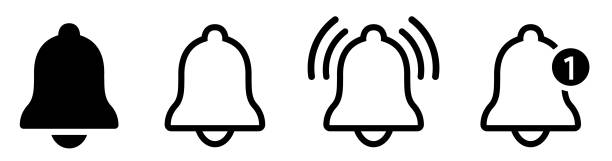
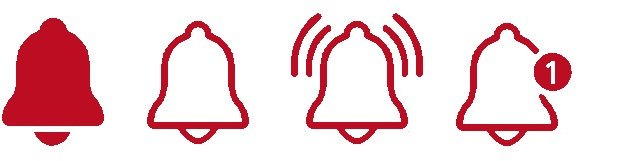
Style again

Changed region(s): [[0.4657, 0.0932, 0.9624, 0.9317], [0.0, 0.0932, 0.4346, 0.9317]]

diff --git a/base/templates/base/navbar.html b/base/templates/base/navbar.html
@@ -3,32 +3,32 @@
     <div class="container" style="margin-bottom: 20px;">
         <nav style="width: 100%; padding-top: 3px; padding-bottom: 10px; height: 50px;">
             <ul class="nav nav-tabs" style="border: 0px;">
-                <li class="nav-item" style="margin-top:0px; margin-left:5px;">
+                <li class="nav-item" style="margin-top:0px; margin-left:34px;">
                     <a href="{% url 'questions' %}">
-                        <img src="{% static 'images/lx10.png' %}">
+                        <img style="border: #e45c5c 1px ridge; border-radius: 9%;" src="{% static 'images/lx10.png' %}">
                     </a>
                 </li>
                 <li class="nav-item" style="margin-top:0px; margin:auto; margin-left:20px;">
-                    <input style="padding:5px; border-radius: 10px; width: 300px; background-color: #f6f5f5;" placeholder="Find Questions" />
+                    <input style="padding:5px; border-radius: 5%; border: #e45c5c 1px ridge; width: 300px; background-color: #FFFBFC; margin-right: 100px; margin-left: 30px;" placeholder="Find Questions" />
                 </li>
-                <li class="nav-item" style="margin-top:0px; margin:auto; margin-left:15px;">
+                <li class="nav-item" style="margin-top:0px; margin:auto; margin-left: 25px;">
                     <a href="{% url 'myquestions' %}">
                         <img src="{% static 'images/myfolder2.png' %}">
                     </a>
                 </li>
-                <li class="nav-item" style="margin-top:0px; margin:auto; margin-left:15px;">
+                <li class="nav-item" style="margin-top:0px; margin:auto; margin-left: 25px;">
                     <a href="{% url 'account_settings' %}">
                         <div style="width: 42px; height: 42px;">
                             <img style="width: 100%; height: 100%; border-radius: 50%; border: #bd0d22 1px solid;" src="{% static 'images/perfil.png' %}">
                         </div>
                     </a>
                 </li>
-                <li class="nav-item" style="margin-top:0px; margin:auto; margin-left:15px;">
+                <li class="nav-item" style="margin-top:0px; margin:auto; margin-left: 25px;">
                     <a href="{% url 'notifications' %}">
                         <img src="{% static 'images/notification_k.png' %}">
                     </a>
                 </li>
-                <li class="nav-item" style="margin-top:0px; margin:auto; margin-left:15px;">
+                <li class="nav-item" style="margin-top:0px; margin:auto; margin-left: 25px;">
                     <a href="{% url 'logout' %}">
                         <img src="{% static 'images/logout5.png' %}">
                     </a>
@@ -40,22 +40,22 @@
         <nav style="margin:0px; padding-top: 5px;">
             <ul class="nav nav-tabs" style="border: 0px;">
                 <li class="nav-item" style="margin:auto;">
-                    <a class="nav-link" style="color:#252c35; padding:15px; padding-left:30px; padding-right:30px;  font-size: 20px; color:#252c35;; font-weight: bold;" href="{% url 'questions' %}">Questions</a>
+                    <a class="nav-link" style="border-radius: 10%; color:#252c35; padding:15px; padding-left:30px; padding-right:30px;  font-size: 28px; color:#252c35;  font-weight: bold;" href="{% url 'questions' %}">Questions</a>
                 </li>
                 <li class="nav-item" style="margin:auto;">
-                    <a class="nav-link" style="color:#252c35; padding:15px; padding-left:30px; padding-right:30px; font-size: 20px; color:#252c35;  font-weight: bold;" href="{% url 'exams' %}">Exams</a>
+                    <a class="nav-link" style="border-radius: 10%; color:#252c35; padding:15px; padding-left:30px; padding-right:30px; font-size: 28px; color:#252c35;  font-weight: bold;" href="{% url 'exams' %}">Exams</a>
                 </li>
                 <li class="nav-item" style="margin:auto;">
-                    <a class="nav-link" style="color:#252c35; padding:15px; padding-left:30px; padding-right:30px; font-size: 20px; color:#252c35; font-weight: bold;" href="{% url 'universities' %}">Universities</a>
+                    <a class="nav-link" style="border-radius: 10%; color:#252c35; padding:15px; padding-left:30px; padding-right:30px; font-size: 28px; color:#252c35; font-weight: bold;" href="{% url 'universities' %}">Universities</a>
                 </li>
                 <li class="nav-item" style="margin:auto;">
-                    <a class="nav-link" style="color:#252c35; padding:15px; padding-left:30px; padding-right:30px;  font-size: 20px; color:#252c35; font-weight: bold;" href="{% url 'books' %}">Books</a>
+                    <a class="nav-link" style="border-radius: 10%; color:#252c35; padding:15px; padding-left:30px; padding-right:30px;  font-size: 28px; color:#252c35; font-weight: bold;" href="{% url 'books' %}">Books</a>
                 </li>
                 <li class="nav-item" style="margin:auto;">
-                    <a class="nav-link" style="color:#252c35; padding:15px; padding-left:30px; padding-right:30px;  font-size: 20px; color:#252c35; font-weight: bold;" href="{% url 'support' %}"">Support</a>
+                    <a class="nav-link" style="border-radius: 10%; color:#252c35; padding:15px; padding-left:30px; padding-right:30px;  font-size: 28px; color:#252c35; font-weight: bold;" href="{% url 'support' %}"">Support</a>
                 </li>
-                <li class="nav-item" style="margin:auto;">
-                    <a class="nav-link" style="color:#252c35; padding:15px; padding-left:30px; padding-right:30px;  font-size: 20px; color:#252c35; font-weight: bold;" href="{% url 'aboutus' %}"">About Us</a>
+                <li class="nav-item" style="margin:auto; margin-right: 10px;">
+                    <a class="nav-link" style="border-radius: 10%; color:#252c35; padding:15px; padding-left:30px; padding-right:30px;  font-size: 28px; color:#252c35; font-weight: bold;" href="{% url 'aboutus' %}"">About Us</a>
                 </li>
             </ul>
         </nav>

diff --git a/base/templates/base/question_display.html b/base/templates/base/question_display.html
@@ -12,45 +12,49 @@
     {% csrf_token %}
     <div style="display:block; margin-bottom:50px; margin-bottom:50px;">
         <div style="display:block;">
-            <div style="display:inline-block; margin:10px; margin-right:20px; margin-left: 0px;">
-                <b style="font-size: 20px; color:#252c35;">Discipline: {{question.subject.discipline_name}}</b>
-            </div>
-            <div style="display:inline-block; margin:10px; margin-right:20px;">
-                <b style="font-size: 20px; color:#252c35;">Subject: {{question.subject}}</b>
-            </div>
-            <div style="display: inline-block; margin:10px; margin-right:20px;">
-                {% if question.university != None %}
-                    <b style="font-size: 20px; color:#252c35;">University: {{question.university.initials}}</b>
-                {% endif %}
-            </div>
-            <div style="display:inline-block; margin:10px; margin-right:20px;">
+            {% if question.subject != None %}
+                <div style="display:inline-block; display:inline-block;">
+                    <b style="font-size: 20px; color:#252c35;">Discipline: {{question.subject.discipline_name}}</b>
+                </div>
+            {% endif %}
+            {% if question.subject != None %}
+                <div style="display:inline-block; margin-left: 5%;">
+                    <b style="font-size: 20px; color:#252c35;">Subject: {{question.subject}}</b>
+                </div>
+            {% endif %}
+            {% if question.university != None %}
+                <div style="display:inline-block; display:inline-block; margin-left: 5%;">
+                    <b style="font-size: 20px; color:#252c35;">Uni: {{question.university.initials}}</b>
+                </div>
+            {% endif %}
+            <div style="display:inline-block; display:inline-block; margin-left: 5%;">
                 <b style="font-size: 20px; color:#252c35;">Teacher: {{question.teacher_name}}</b>
             </div>
-            <div style="display:inline-block; margin:10px; margin-right:20px;">
-                <b style="font-size: 20px; color:#252c35;">Education Level: {{question.education_Level}}</b>
-            </div>
-            <div style="display:inline-block;">
-                <b style="font-size: 20px; color:#252c35;">Posted: {{question.date_created.year}}</b>
+            <div style="display:inline-block; display:inline-block; margin-left: 5%;">
+                <b style="font-size: 20px; color:#252c35;">Year: {{question.date_created.year}}</b>
             </div>      
         </div>
         <div>
             <p style="margin-bottom:30px;">{{question.text}}</p>
         </div>
-        <button style="padding:10px; padding-right:20px; padding-left:20px; background-color: #bd0d22; color: white; border-radius: 10%; border: #e35760 1px solid; margin-right: 15px;" type="submit">Answear</button>
-        <button id="answears" style="padding:10px; padding-right:20px; padding-left:20px; background-color: #bd0d22; color: white; border-radius: 10%; border: #e35760 1px solid; margin-right: 15px;"  onclick="Show">Answears</button>
-        <button style="padding:10px; padding-right:20px; padding-left:20px; background-color: #bd0d22; color: white; border-radius: 10%; border: #e35760 1px solid; margin-right: 15px;">Commentaries</button>
-        <a href="postreport"><button style="padding:10px; padding-right:20px; padding-left:20px; background-color: #bd0d22; color: white; border-radius: 10%; border: #e35760 1px solid;">Report</button></a>
+        <div>
+            <button id="answears" style="padding:10px; padding-right:20px; padding-left:20px; background-color: #e45c5c; color: white; border-radius: 10%; border:none; margin-right: 15px; font-weight: bold; font-size: 18px;"  onclick="Show">Answears</button>
+            <button style="padding:10px; padding-right:20px; padding-left:20px; background-color: #e45c5c; color: white; border-radius: 10%; border: none; margin-right: 15px; font-weight: bold; font-size: 18px;">Commentaries</button>
+            <a href="postreport"><button style="padding:10px; padding-right:20px; padding-left:20px; background-color: #e45c5c; color: white; border-radius: 10%; border: none; font-weight: bold; font-size: 18px;">Report</button></a>
+        </div>
     </div>
-    <div class="hidden">
-        <textarea style="width:100%; height: height:100%;"></textarea>
-        <button style="padding:10px; padding-right:20px; padding-left:20px;" type="submit">Send Answear</button>
+    <div>
+        <textarea style="width:100%; height: 150px;"></textarea>
+        <div style="margin-left: 80%; width: 20%;">
+            <button style="padding:10px; padding-right:20px; padding-left:20px; background-color: #e45c5c; color: white; border-radius: 10%; border: none; margin-right: 15px; font-weight: bold; font-size: 18px;" type="submit">Answear</button>
+        </div>
     </div>
     <div class="hidden" style="block">
         {% for commentary in question.comments.all %}
             <p>{{commentary.standard_user}} {{commentary.text}}</p>
         {% endfor %}
         <input>
-        <button style="padding:10px; padding-right:20px; padding-left:20px;" type="submit">Send Answear</button>
+        <button style="padding:10px; padding-right:20px; padding-left:20px; background-color: #e45c5c; color: white; border-radius: 10%; border: none; margin-right: 15px; font-weight: bold; font-size: 18px;" type="submit">Comment</button>
     </div>
     {% for answear in question.answears.all %}
     <div class="hidden">

diff --git a/base/templates/base/questions.html b/base/templates/base/questions.html
@@ -10,14 +10,15 @@
     }
 </style>
 <div class="container">
-    <h1 style="display: inline-block; color:#252c35; margin-right: 10px;">Questions</h1>
     <div style="display: inline-block;">
+        <h1 style="color:#252c35;">Questions</h1>
+    </div>
+    <div style="display: inline-block; margin-left: 1%;">
         <a style="color: #e35760; font-size: 22px; text-align: center;" href="{% url 'postquestion' %}" type="submit">Post Question</a>
     </div>
 </div>
 <div style="background-color: #f6f5f5; height: 200px; border-top: #252c35 1px solid; border-bottom: #252c35 1px solid;"></div>
-<div class="container">
-        <hr>
+<div class="container" style="margin-top: 30px;">
         {% csrf_token %}
         {% for question in questions %}
             {% include 'base/question_display.html' %}

diff --git a/base/templates/base/notifications.html b/base/templates/base/notifications.html
@@ -1,9 +1,8 @@
 {%  extends 'base/main.html' %}
 
 {% block content %} 
-<div>
-    <h1 style="margin-bottom:40px;">Notification</h1>
-    <hr>
+<div class="container">
+    <h1 style="margin-bottom:40px; color:#252c35;">Notification</h1>
     {% csrf_token %}
     {% for notification in notifications %}
     {% endfor %}
